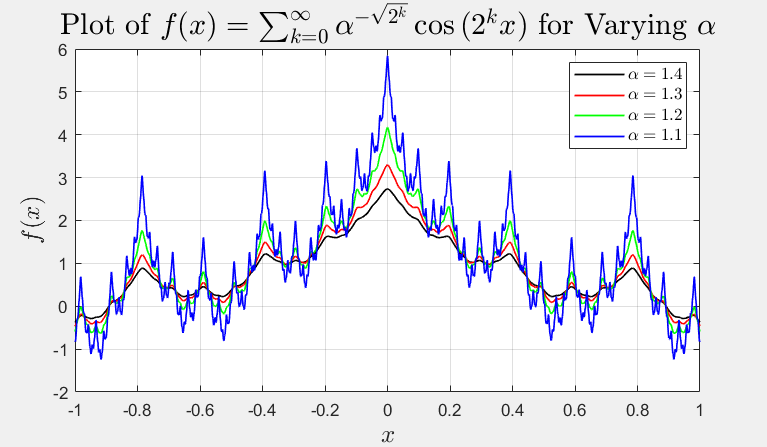
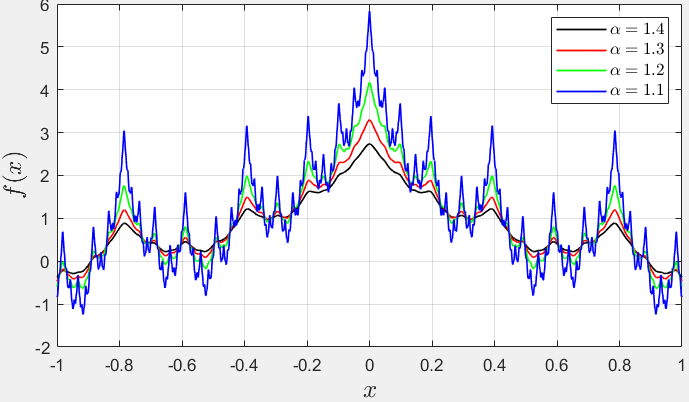
resize image

diff --git a/docs/projects.md b/docs/projects.md
@@ -5,7 +5,7 @@ permalink: /projects/
 ---
 
 ## [Approximation Theory](https://jdhesi.github.io/) 
-![Errors](/assets/images/multiplot3.png)
+![Errors](/assets/images/multiplot3_resize.png)
 
 ## [Graph Theory](https://jdhesi.github.io/) 
 ## [Data Science](https://jdhesi.github.io/) 
